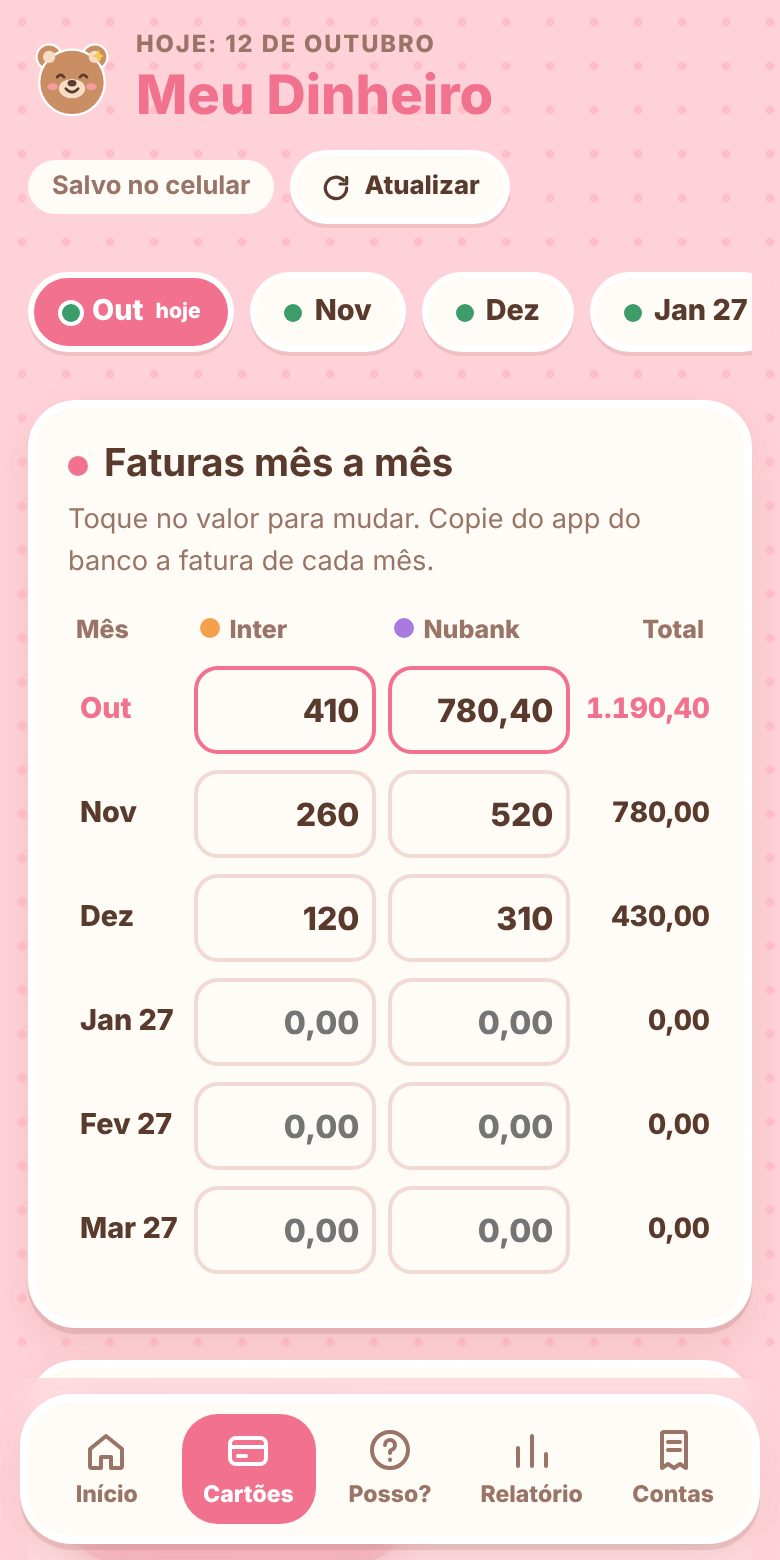
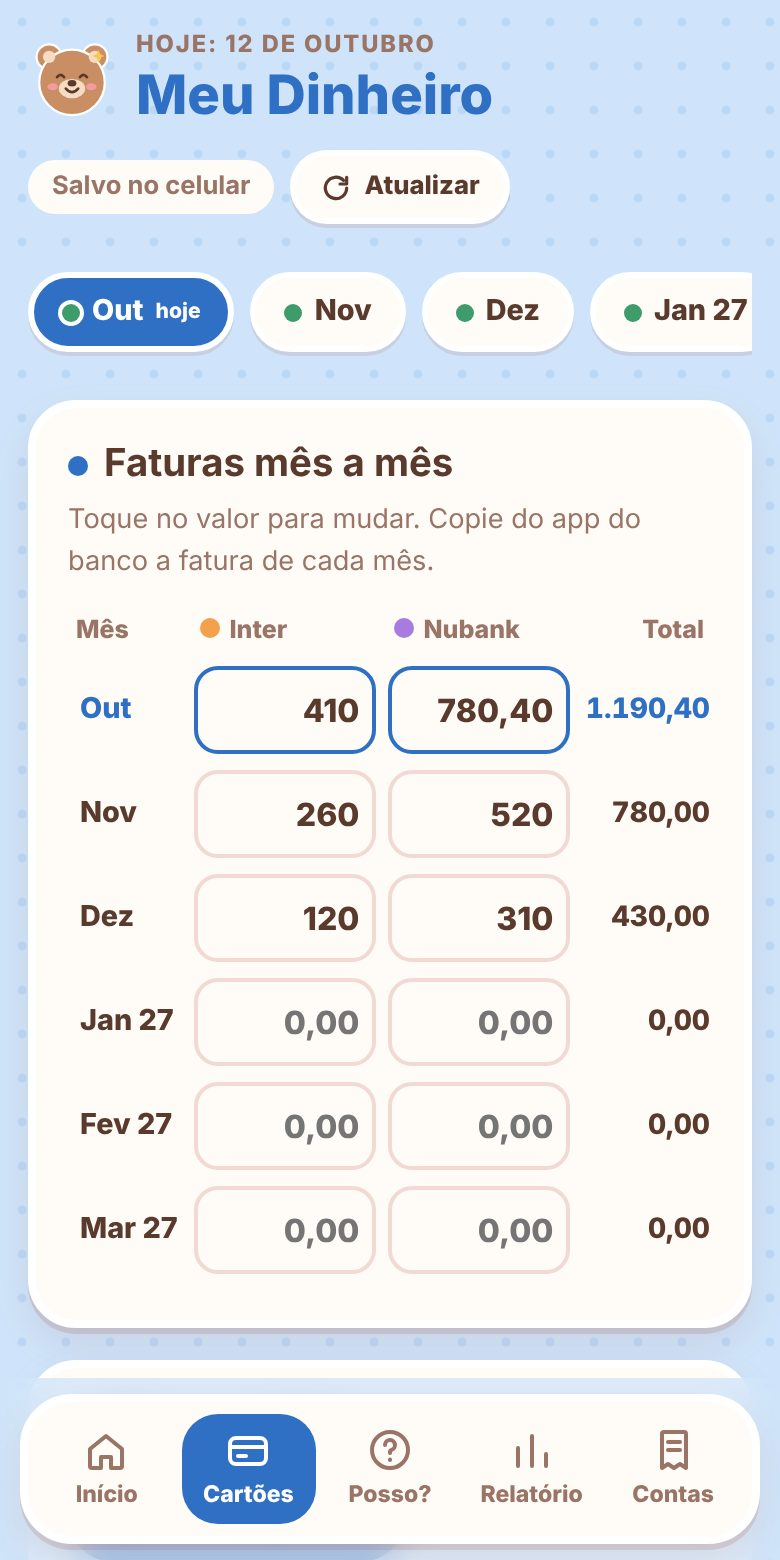
Add files via upload

diff --git a/index.html b/index.html
@@ -47,9 +47,9 @@ img{max-width:100%}
   --bear:#C98E63; --bear-in:#F6DCC4; --blush:#FF9FB2; --sticker:#4A363C; --c-fixa:#D9607E; --c-cartao:#9A72DC;
   --shadow:0 3px 0 rgba(0,0,0,.35),0 8px 18px rgba(0,0,0,.25); color-scheme:dark}
 /* Temas de cor (Personalizar) */
-:root[data-tema="lilas"]{--bg:#E3D7FB;--dots:#D5C5F7;--accent:#7C4DDB;--accent-soft:#F1EAFE}
-:root[data-tema="menta"]{--bg:#CDEFE0;--dots:#B8E6D2;--accent:#1F8A62;--accent-soft:#E3F6EE}
-:root[data-tema="ceu"]{--bg:#CFE4FA;--dots:#BCD8F7;--accent:#2F6FC4;--accent-soft:#E4F0FD}
+:root[data-tema="lilas"]{--line:#E6DCF7;--bg:#E3D7FB;--dots:#D5C5F7;--accent:#7C4DDB;--accent-soft:#F1EAFE}
+:root[data-tema="menta"]{--line:#CFE7DC;--bg:#CDEFE0;--dots:#B8E6D2;--accent:#1F8A62;--accent-soft:#E3F6EE}
+:root[data-tema="ceu"]{--line:#D3E3F4;--bg:#CFE4FA;--dots:#BCD8F7;--accent:#2F6FC4;--accent-soft:#E4F0FD}
 :root[data-tema="areia"]{--bg:#EFE6DA;--dots:#E5D8C7;--accent:#A0603F;--accent-soft:#F7EFE6}
 @media (prefers-color-scheme:dark){
   :root[data-tema="lilas"]:not([data-theme="light"]){--bg:#231D2E;--dots:#2C2539;--surface:#2F2840;--sticker:#3D3452;--line:#463C5C;--accent:#B79CFF;--accent-soft:#3A3050}
@@ -352,7 +352,7 @@ input[type="color"]{padding:4px;height:44px;cursor:pointer}
     <section class="panel husband-panel" id="maridoPanel" hidden>
       <div class="panel-head"><h2>Recebi uma ajuda</h2></div>
       <form class="inline" id="formMarido" style="margin-top:0">
-        <label style="grid-column:1/-1">De quem veio<select id="mQuem"><option value="esposo">Esposo</option><option value="namorado">Namorado</option><option value="noivo">Noivo</option><option value="pai">Pai</option><option value="outra">Outra renda</option></select></label>
+        <label style="grid-column:1/-1">De quem veio<select id="mQuem"><option value="esposo">Esposo</option><option value="esposa">Esposa</option><option value="namorado">Namorado</option><option value="namorada">Namorada</option><option value="noivo">Noivo</option><option value="noiva">Noiva</option><option value="pai">Pai</option><option value="mae">Mãe</option><option value="familia">Família</option><option value="outra">Outra renda</option></select></label>
         <label>Quanto recebeu<input id="mValor" inputmode="decimal" required placeholder="500,00"></label>
         <label>Para qual mês<select id="mMes"></select></label>
         <label style="grid-column:1/-1">Recadinho (opcional)<input id="mNota" placeholder="Pra pagar a fatura do Nubank"></label>
@@ -494,14 +494,13 @@ input[type="color"]{padding:4px;height:44px;cursor:pointer}
         <label class="full">Nome do app<input id="pNome" maxlength="24" placeholder="Meu Dinheiro"></label>
         <div class="full"><div class="label" style="margin-bottom:6px">Cor do app</div>
           <div class="swatches" id="pTemas">
-            <button type="button" class="swatch" data-tema="rosa" aria-label="Rosa" style="background:#F2718F"></button>
-            <button type="button" class="swatch" data-tema="lilas" aria-label="Lilás" style="background:#7C4DDB"></button>
-            <button type="button" class="swatch" data-tema="menta" aria-label="Verde menta" style="background:#1F8A62"></button>
+            <button type="button" class="swatch" data-tema="menta" aria-label="Verde" style="background:#1F8A62"></button>
             <button type="button" class="swatch" data-tema="ceu" aria-label="Azul" style="background:#2F6FC4"></button>
-            <button type="button" class="swatch" data-tema="areia" aria-label="Areia" style="background:#A0603F"></button>
+            <button type="button" class="swatch" data-tema="lilas" aria-label="Lilás" style="background:#7C4DDB"></button>
+            <button type="button" class="swatch" data-tema="rosa" aria-label="Rosa" style="background:#F2718F"></button>
           </div></div>
         <label>Mascote<select id="pUrso"><option value="1">Ursinho</option><option value="0">Sem mascote</option></select></label>
-        <label>Quem costuma te ajudar<select id="pQuem"><option value="esposo">Esposo</option><option value="namorado">Namorado</option><option value="noivo">Noivo</option><option value="pai">Pai</option><option value="outra">Outra renda</option></select></label>
+        <label>Quem costuma te ajudar<select id="pQuem"><option value="esposo">Esposo</option><option value="esposa">Esposa</option><option value="namorado">Namorado</option><option value="namorada">Namorada</option><option value="noivo">Noivo</option><option value="noiva">Noiva</option><option value="pai">Pai</option><option value="mae">Mãe</option><option value="familia">Família</option><option value="outra">Outra renda</option></select></label>
       </div>
     </section>
     <section class="panel">
@@ -525,13 +524,20 @@ input[type="color"]{padding:4px;height:44px;cursor:pointer}
 <div class="gate" id="gate" hidden>
   <div class="gate-card">
     <div class="light" id="gateBear" aria-hidden="true"></div>
-    <h2>Bem-vinda ao Meu Dinheiro!</h2>
+    <h2>Boas-vindas ao Meu Dinheiro!</h2>
     <p>Digite o código de ativação que você recebeu na compra.</p>
     <form id="gateForm">
       <input id="gateCode" autocomplete="off" autocapitalize="characters" placeholder="MD-XXXX-XXXX" aria-label="Código de ativação" required>
       <button class="primary" type="submit">Ativar</button>
     </form>
     <div class="gate-msg" id="gateMsg" aria-live="polite"></div>
+    <div style="width:100%"><div class="label" style="margin-bottom:8px">Escolha a cor do seu app</div>
+      <div class="swatches" id="gateTemas" style="justify-content:center">
+        <button type="button" class="swatch" data-tema="menta" aria-label="Verde" style="background:#1F8A62"></button>
+        <button type="button" class="swatch" data-tema="ceu" aria-label="Azul" style="background:#2F6FC4"></button>
+        <button type="button" class="swatch" data-tema="lilas" aria-label="Lilás" style="background:#7C4DDB"></button>
+        <button type="button" class="swatch" data-tema="rosa" aria-label="Rosa" style="background:#F2718F"></button>
+      </div></div>
     <p class="small muted">Ainda não tem o seu? <a href="conheca.html">Conheça e compre aqui</a></p>
   </div>
 </div>
@@ -577,15 +583,19 @@ input[type="color"]{padding:4px;height:44px;cursor:pointer}
 
   // ---------- Personalizar (fica salvo só neste celular) ----------
   const VIS = {nome:'Meu Dinheiro', tema:'rosa', urso:true, quem:'esposo'};
-  try{ Object.assign(VIS, JSON.parse(localStorage.getItem('md-visual')||'{}')); }catch(e){}
-  const TEMA_COR={rosa:'#FFD1D8',lilas:'#E3D7FB',menta:'#CDEFE0',ceu:'#CFE4FA',areia:'#EFE6DA'};
+  try{
+    const sv=localStorage.getItem('md-visual');
+    if(sv) Object.assign(VIS, JSON.parse(sv));
+    else { VIS.tema = localStorage.getItem('md-ativo')==='1' || localStorage.getItem('meu-dinheiro-dados-v1') ? 'rosa' : 'menta'; localStorage.setItem('md-visual', JSON.stringify(VIS)); }
+  }catch(e){}
+  const TEMA_COR={rosa:'#FFD1D8',lilas:'#E3D7FB',menta:'#CDEFE0',ceu:'#CFE4FA'};
   function applyVis(){
     const nome=(VIS.nome||'').trim()||'Meu Dinheiro';
     document.querySelector('header h1').textContent=nome; document.title=nome;
-    const g=document.querySelector('.gate-card h2'); if(g) g.textContent='Bem-vinda ao '+nome+'!';
+    const g=document.querySelector('.gate-card h2'); if(g) g.textContent='Boas-vindas ao '+nome+'!';
     if(VIS.tema && VIS.tema!=='rosa') document.documentElement.dataset.tema=VIS.tema; else delete document.documentElement.dataset.tema;
     const mt=document.querySelector('meta[name="theme-color"]'); if(mt) mt.content=TEMA_COR[VIS.tema]||TEMA_COR.rosa;
-    document.querySelectorAll('#pTemas [data-tema]').forEach(b=>b.setAttribute('aria-pressed', b.dataset.tema===(VIS.tema||'rosa')));
+    document.querySelectorAll('#pTemas [data-tema], #gateTemas [data-tema]').forEach(b=>b.setAttribute('aria-pressed', b.dataset.tema===(VIS.tema||'rosa')));
     if(document.activeElement!==$('pNome')) $('pNome').value = VIS.nome==='Meu Dinheiro'?'':(VIS.nome||'');
     $('pUrso').value=VIS.urso?'1':'0'; $('pQuem').value=VIS.quem||'esposo';
   }
@@ -636,9 +646,10 @@ input[type="color"]{padding:4px;height:44px;cursor:pointer}
 
   // ---------- Cálculos ----------
   function fat(c,m){ if(c.faturas && c.faturas[m]!=null) return Number(c.faturas[m])||0; if(!c.faturas && m===BASE) return Number(c.fatura)||0; return 0; }
-  const QUEM={esposo:'Esposo',namorado:'Namorado',noivo:'Noivo',pai:'Pai',outra:'Outra renda'};
+  const QUEM={esposo:'Esposo',esposa:'Esposa',namorado:'Namorado',namorada:'Namorada',noivo:'Noivo',noiva:'Noiva',pai:'Pai',mae:'Mãe',familia:'Família',outra:'Outra renda'};
+  const FEM={esposa:1,namorada:1,noiva:1,mae:1,familia:1};
   const quemDe=a=>QUEM[a.quem]?a.quem:'esposo';
-  const ajLabel=a=>{const q=quemDe(a); return q==='outra'?'Outra renda':'Ajuda do '+QUEM[q].toLowerCase();};
+  const ajLabel=a=>{const q=quemDe(a); return q==='outra'?'Outra renda':'Ajuda '+(FEM[q]?'da ':'do ')+QUEM[q].toLowerCase();};
   function ajudasDe(m){ return state.ajudas.filter(a=>a.mes===m); }
   function totals(m){
     const salario=(state.cfg.salario||0)+(state.cfg.extras||0);
@@ -723,7 +734,7 @@ input[type="color"]{padding:4px;height:44px;cursor:pointer}
       $('freeValue').innerHTML = '<small>'+(t.sobra<0?'Faltam':'Passou da reserva em')+'</small>'+fmt(t.sobra<0?-t.sobra:-t.livre);
     } else if(salvo){
       const qs=[...new Set(ajudasDe(sel).map(quemDe))];
-      $('statusTitle').textContent = qs.length===1 && qs[0]!=='outra' ? 'Salva pelo '+QUEM[qs[0]].toLowerCase()+'!' : 'Salva pela ajuda!';
+      $('statusTitle').textContent = qs.length===1 && qs[0]!=='outra' ? (FEM[qs[0]]?'A ':'O ')+QUEM[qs[0]].toLowerCase()+' salvou o mês!' : 'A ajuda salvou o mês!';
       $('statusText').textContent=`O salário não dava, mas com ${qs.length===1&&qs[0]==='outra'?'a outra renda':'a ajuda'} (${fmt(t.ajuda)}) as contas de ${mName(sel)} fecham.`;
       $('freeValue').innerHTML = '<small>Ainda livre</small>'+fmt(t.livre);
     } else if(lv==='warn'){
@@ -1014,6 +1025,7 @@ input[type="color"]{padding:4px;height:44px;cursor:pointer}
     first.scrollIntoView({block:'start'}); setTimeout(()=>f.querySelector('input').focus({preventScroll:true}),50);
   };
   $('pNome').addEventListener('input',()=>{ VIS.nome=$('pNome').value.trim()||'Meu Dinheiro'; saveVis(); });
+  $('gateTemas').addEventListener('click',e=>{ const b=e.target.closest('[data-tema]'); if(b){ VIS.tema=b.dataset.tema; saveVis(); } });
   $('pTemas').addEventListener('click',e=>{ const b=e.target.closest('[data-tema]'); if(b){ VIS.tema=b.dataset.tema; saveVis(); } });
   $('pUrso').onchange=()=>{ VIS.urso=$('pUrso').value==='1'; saveVis(); $('brandBear').innerHTML=bear('ok'); $('light').dataset.mood=''; render(); };
   $('pQuem').onchange=()=>{ VIS.quem=$('pQuem').value; saveVis(); };
@@ -1183,14 +1195,17 @@ input[type="color"]{padding:4px;height:44px;cursor:pointer}
       if(!ativo){ const d=JSON.parse(localStorage.getItem('meu-dinheiro-dados-v1')||'null');
         if(d && ['cartoes','fixas','gastos','ajudas'].some(k=>d[k]&&Object.keys(d[k]).length) || (d&&d.config&&d.config.main)){ ativo=true; localStorage.setItem('md-ativo','1'); } }
     }catch(e){ ativo=true; }
-    if(ativo) return;
+    // Link de ativação: ...netlify.app/?codigo=MD-XXXX-XXXX (para enviar pela Hotmart/Kiwify)
+    let viaLink=null; try{ viaLink=new URLSearchParams(location.search).get('codigo'); }catch(e){}
+    if(ativo){ if(viaLink){ try{ history.replaceState(null,'',location.pathname+location.hash); }catch(e){} } return; }
     $('gate').hidden=false; $('gateBear').innerHTML=bear('none');
     $('gateForm').onsubmit=async e=>{ e.preventDefault();
       const c=normCode($('gateCode').value); $('gateMsg').textContent='';
       let ok=false; try{ ok = c.length>=10 && CODIGOS.has(await hashCode(c)); }catch(err){}
-      if(ok){ try{ localStorage.setItem('md-ativo','1'); localStorage.setItem('md-codigo',c); }catch(err){} $('gateBear').innerHTML=bear('ok'); $('gateMsg').style.color='var(--ok)'; $('gateMsg').textContent='Ativado! Bem-vinda 💕'; setTimeout(()=>{ $('gate').hidden=true; },900); }
+      if(ok){ try{ localStorage.setItem('md-ativo','1'); localStorage.setItem('md-codigo',c); }catch(err){} $('gateBear').innerHTML=bear('ok'); $('gateMsg').style.color='var(--ok)'; $('gateMsg').textContent='Ativado! Tudo pronto 🎉'; setTimeout(()=>{ $('gate').hidden=true; },900); }
       else { $('gateBear').innerHTML=bear('stop'); $('gateMsg').style.color=''; $('gateMsg').textContent='Código não encontrado. Confira e tente de novo.'; }
     };
+    if(viaLink){ $('gateCode').value=viaLink; try{ history.replaceState(null,'',location.pathname+location.hash); }catch(e){} setTimeout(()=>$('gateForm').requestSubmit(),300); }
   })();
 
   // ---------- Início ----------

diff --git a/conheca.html b/conheca.html
@@ -3,7 +3,7 @@
 <head>
 <meta charset="utf-8">
 <meta name="viewport" content="width=device-width,initial-scale=1">
-<meta name="theme-color" content="#FFD1D8">
+<meta name="theme-color" content="#EEF4F1">
 <title>Meu Dinheiro: o app que avisa antes de você se enrolar</title>
 <meta name="description" content="Controle seus cartões, faturas e salário no celular. O ursinho avisa quando ainda dá para comprar e quando é hora de parar.">
 <link rel="icon" href="icon-192.png" type="image/png">
@@ -12,19 +12,19 @@
 <style>
 /* ===== Troque aqui o preço e o seu WhatsApp ===== */
 :root{
-  --bg:#FFD1D8; --dots:#FFBFCA; --surface:#FFFBF7; --ink:#5B3A2E; --muted:#8E6A5D; --line:#F3D9D3;
-  --accent:#E05A7C; --accent-soft:#FFE6EC; --ok:#2F8A5B; --ok-soft:#DDF3E3; --stop:#C93743; --stop-soft:#FFDDE0;
-  --sticker:#fff; --shadow:0 3px 0 rgba(155,90,80,.18),0 10px 24px rgba(155,90,80,.14);
+  --bg:#EEF4F1; --dots:#DCE8E2; --surface:#FFFFFF; --ink:#1F3A33; --muted:#5A6F68; --line:#D9E5DF;
+  --accent:#1F8A62; --accent-soft:#E3F6EE; --ok:#1F8A62; --ok-soft:#E3F6EE; --stop:#C93743; --stop-soft:#FFDDE0;
+  --sticker:#fff; --shadow:0 3px 0 rgba(20,60,45,.10),0 10px 24px rgba(20,60,45,.10);
   --display:"Baloo 2",system-ui,sans-serif; --body:"Nunito",system-ui,sans-serif;
 }
 @media (prefers-color-scheme:dark){:root:not([data-theme="light"]){
-  --bg:#2B1D22; --dots:#35242A; --surface:#3A2A2F; --ink:#FBE9E4; --muted:#CFAEA6; --line:#4E3940;
-  --accent:#FF8FA8; --accent-soft:#4A2E37; --ok:#86DBA6; --ok-soft:#24392C; --stop:#FF8A93; --stop-soft:#4C2429;
-  --sticker:#4A363C; --shadow:0 3px 0 rgba(0,0,0,.35),0 10px 24px rgba(0,0,0,.3); color-scheme:dark}}
+  --bg:#15201D; --dots:#1C2925; --surface:#1F2D29; --ink:#E8F2EE; --muted:#A9BDB6; --line:#2E403A;
+  --accent:#6FD3A8; --accent-soft:#23382F; --ok:#6FD3A8; --ok-soft:#23382F; --stop:#FF8A93; --stop-soft:#4C2429;
+  --sticker:#2A3B35; --shadow:0 3px 0 rgba(0,0,0,.35),0 10px 24px rgba(0,0,0,.3); color-scheme:dark}}
 :root[data-theme="dark"]{
-  --bg:#2B1D22; --dots:#35242A; --surface:#3A2A2F; --ink:#FBE9E4; --muted:#CFAEA6; --line:#4E3940;
-  --accent:#FF8FA8; --accent-soft:#4A2E37; --ok:#86DBA6; --ok-soft:#24392C; --stop:#FF8A93; --stop-soft:#4C2429;
-  --sticker:#4A363C; --shadow:0 3px 0 rgba(0,0,0,.35),0 10px 24px rgba(0,0,0,.3); color-scheme:dark}
+  --bg:#15201D; --dots:#1C2925; --surface:#1F2D29; --ink:#E8F2EE; --muted:#A9BDB6; --line:#2E403A;
+  --accent:#6FD3A8; --accent-soft:#23382F; --ok:#6FD3A8; --ok-soft:#23382F; --stop:#FF8A93; --stop-soft:#4C2429;
+  --sticker:#2A3B35; --shadow:0 3px 0 rgba(0,0,0,.35),0 10px 24px rgba(0,0,0,.3); color-scheme:dark}
 *{box-sizing:border-box}
 html{-webkit-text-size-adjust:100%;scroll-behavior:smooth}
 body{margin:0;background-color:var(--bg);background-image:radial-gradient(var(--dots) 2px,transparent 2.5px);background-size:22px 22px;color:var(--ink);font-family:var(--body);font-size:17px;line-height:1.55}
@@ -33,6 +33,7 @@ h1,h2,h3{font-family:var(--display);margin:0;line-height:1.1;text-wrap:balance}
 a{color:inherit}
 .wrap{max-width:1040px;margin:0 auto;padding-inline:16px}
 .card{background:var(--surface);border:4px solid var(--sticker);border-radius:28px;box-shadow:var(--shadow)}
+.btn.buy,.btn:not(.ghost){color:#fff}
 .btn{display:inline-flex;align-items:center;justify-content:center;gap:8px;min-height:52px;padding:12px 26px;border-radius:999px;font-weight:800;font-size:1.05rem;text-decoration:none;background:var(--accent);color:#fff;box-shadow:0 4px 0 color-mix(in srgb,var(--accent) 60%,#000 25%);transition:transform .12s}
 .btn:hover{transform:translateY(-2px)}
 .btn.ghost{background:var(--surface);color:var(--ink);box-shadow:var(--shadow);border:3px solid var(--sticker)}
@@ -93,7 +94,16 @@ section{padding-block:40px}
 .faq p{margin:10px 0 0;font-weight:600}
 footer{text-align:center;padding:30px 16px 50px;color:var(--muted);font-weight:700;font-size:.9rem}
 
+@media (prefers-color-scheme:dark){:root:not([data-theme="light"]) .btn:not(.ghost){color:#10231C}}
+:root[data-theme="dark"] .btn:not(.ghost){color:#10231C}
+.colors{display:grid;grid-template-columns:repeat(4,1fr);gap:18px;max-width:900px;margin:0 auto}
+.colors figure{margin:0;text-align:center}
+.colors .mini{border-radius:28px;padding:6px;background:var(--surface);border:4px solid var(--sticker);box-shadow:var(--shadow)}
+.colors .mini img{border-radius:20px}
+.colors figcaption{margin-top:10px;font-weight:800;display:flex;align-items:center;justify-content:center;gap:8px}
+.colors figcaption i{width:14px;height:14px;border-radius:50%;display:inline-block}
 @media (max-width:820px){
+  .colors{grid-template-columns:repeat(2,1fr);gap:14px}
   .hero{grid-template-columns:1fr;text-align:center;padding-top:8px}
   .hero p.lead{margin-inline:auto}
   .hero .ctas{justify-content:center}
@@ -126,7 +136,7 @@ footer{text-align:center;padding:30px 16px 50px;color:var(--muted);font-weight:7
       </div>
       <div class="note">Pagamento único. Funciona no celular, sem mensalidade.</div>
     </div>
-    <div class="phone"><img src="print-inicio.jpg" alt="Tela inicial do app mostrando o ursinho feliz e o valor livre para gastar no mês" width="390" height="780"></div>
+    <div class="phone"><img src="print-inicio-verde.jpg" alt="Tela inicial do app mostrando o ursinho feliz e o valor livre para gastar no mês" width="390" height="780"></div>
   </div>
 </div>
 
@@ -145,10 +155,22 @@ footer{text-align:center;padding:30px 16px 50px;color:var(--muted);font-weight:7
   <div class="wrap">
     <div class="sec-head"><h2>Tudo o que você precisa, sem complicar</h2><p>Feito para quem quer controle sem planilha e sem termos difíceis.</p></div>
     <div class="feat">
-      <div class="card"><img src="print-inicio.jpg" alt="Tela inicial com aviso verde" width="390" height="780"><div><h3>Aviso que dá para entender</h3><p>Verde: pode respirar. Amarelo: segura a mão. Vermelho: não compre nada. Você vê na hora como está o mês.</p></div></div>
+      <div class="card"><img src="print-inicio-rosa.jpg" alt="Tela inicial com aviso verde" width="390" height="780"><div><h3>Aviso que dá para entender</h3><p>Verde: pode respirar. Amarelo: segura a mão. Vermelho: não compre nada. Você vê na hora como está o mês.</p></div></div>
       <div class="card"><img src="print-posso.jpg" alt="Tela Posso comprar com o resultado" width="390" height="780"><div><h3>Posso comprar?</h3><p>Digite o valor e as parcelas antes de pagar. O app confere este mês e os próximos e responde se dá ou não dá.</p></div></div>
       <div class="card"><img src="print-cartoes.jpg" alt="Tela dos cartões com faturas e limite" width="390" height="780"><div><h3>Todos os cartões juntos</h3><p>Nubank, Inter ou qualquer outro. Faturas mês a mês, limite livre e as compras parceladas já distribuídas.</p></div></div>
       <div class="card"><img src="print-relatorio.jpg" alt="Relatório do mês com gráficos" width="390" height="780"><div><h3>Relatório do mês</h3><p>Quanto entrou, quanto saiu e para onde foi, com gráficos. Dá para mandar pelo WhatsApp com um toque.</p></div></div>
+    </div>
+  </div>
+</section>
+
+<section>
+  <div class="wrap">
+    <div class="sec-head"><h2>Do seu jeito</h2><p>Escolha a cor do app, dê o nome que quiser e decida se o ursinho fica ou sai.</p></div>
+    <div class="colors">
+      <figure><div class="mini"><img src="print-inicio-verde.jpg" alt="App na cor verde" width="390" height="780"></div><figcaption><i style="background:#1F8A62"></i>Verde</figcaption></figure>
+      <figure><div class="mini"><img src="print-inicio-azul.jpg" alt="App na cor azul" width="390" height="780"></div><figcaption><i style="background:#2F6FC4"></i>Azul</figcaption></figure>
+      <figure><div class="mini"><img src="print-inicio-lilas.jpg" alt="App na cor lilás" width="390" height="780"></div><figcaption><i style="background:#7C4DDB"></i>Lilás</figcaption></figure>
+      <figure><div class="mini"><img src="print-inicio-rosa.jpg" alt="App na cor rosa" width="390" height="780"></div><figcaption><i style="background:#F2718F"></i>Rosa</figcaption></figure>
     </div>
   </div>
 </section>
@@ -173,7 +195,7 @@ footer{text-align:center;padding:30px 16px 50px;color:var(--muted);font-weight:7
       <ul>
         <li>Acesso ao app no seu celular (Android e iPhone)</li>
         <li>Seus dados ficam só no seu celular, ninguém vê</li>
-        <li>Personalize o nome e a cor do app</li>
+        <li>4 cores para escolher: verde, azul, lilás ou rosa</li>
         <li>Backup para trocar de celular sem perder nada</li>
         <li>Atualizações e melhorias inclusas</li>
       </ul>
@@ -200,11 +222,18 @@ footer{text-align:center;padding:30px 16px 50px;color:var(--muted);font-weight:7
 
 <script>
 // ===== Troque aqui: seu WhatsApp com DDD (só números) e o preço =====
-const WHATSAPP = '5500000000000';
+const WHATSAPP = '5533999023692';
 const PRECO = 'R$ 29,90';
+// Link do checkout da Hotmart ou Kiwify. Deixe vazio ('') para vender pelo WhatsApp.
+const CHECKOUT = '';
 document.getElementById('preco-valor').textContent = PRECO;
-const msg = encodeURIComponent('Oi! Quero comprar o app Meu Dinheiro (' + PRECO + ').');
-document.getElementById('btn-comprar').href = 'https://wa.me/' + WHATSAPP + '?text=' + msg;
+const btn = document.getElementById('btn-comprar'), fine = document.querySelector('.price .fine');
+if (CHECKOUT) {
+  btn.href = CHECKOUT; btn.textContent = 'Comprar agora';
+  fine.textContent = 'Pagamento seguro por Pix, cartão ou boleto. Você recebe o link de ativação por e-mail na hora.';
+} else {
+  btn.href = 'https://wa.me/' + WHATSAPP + '?text=' + encodeURIComponent('Oi! Quero comprar o app Meu Dinheiro (' + PRECO + ').');
+}
 </script>
 </body>
 </html>
